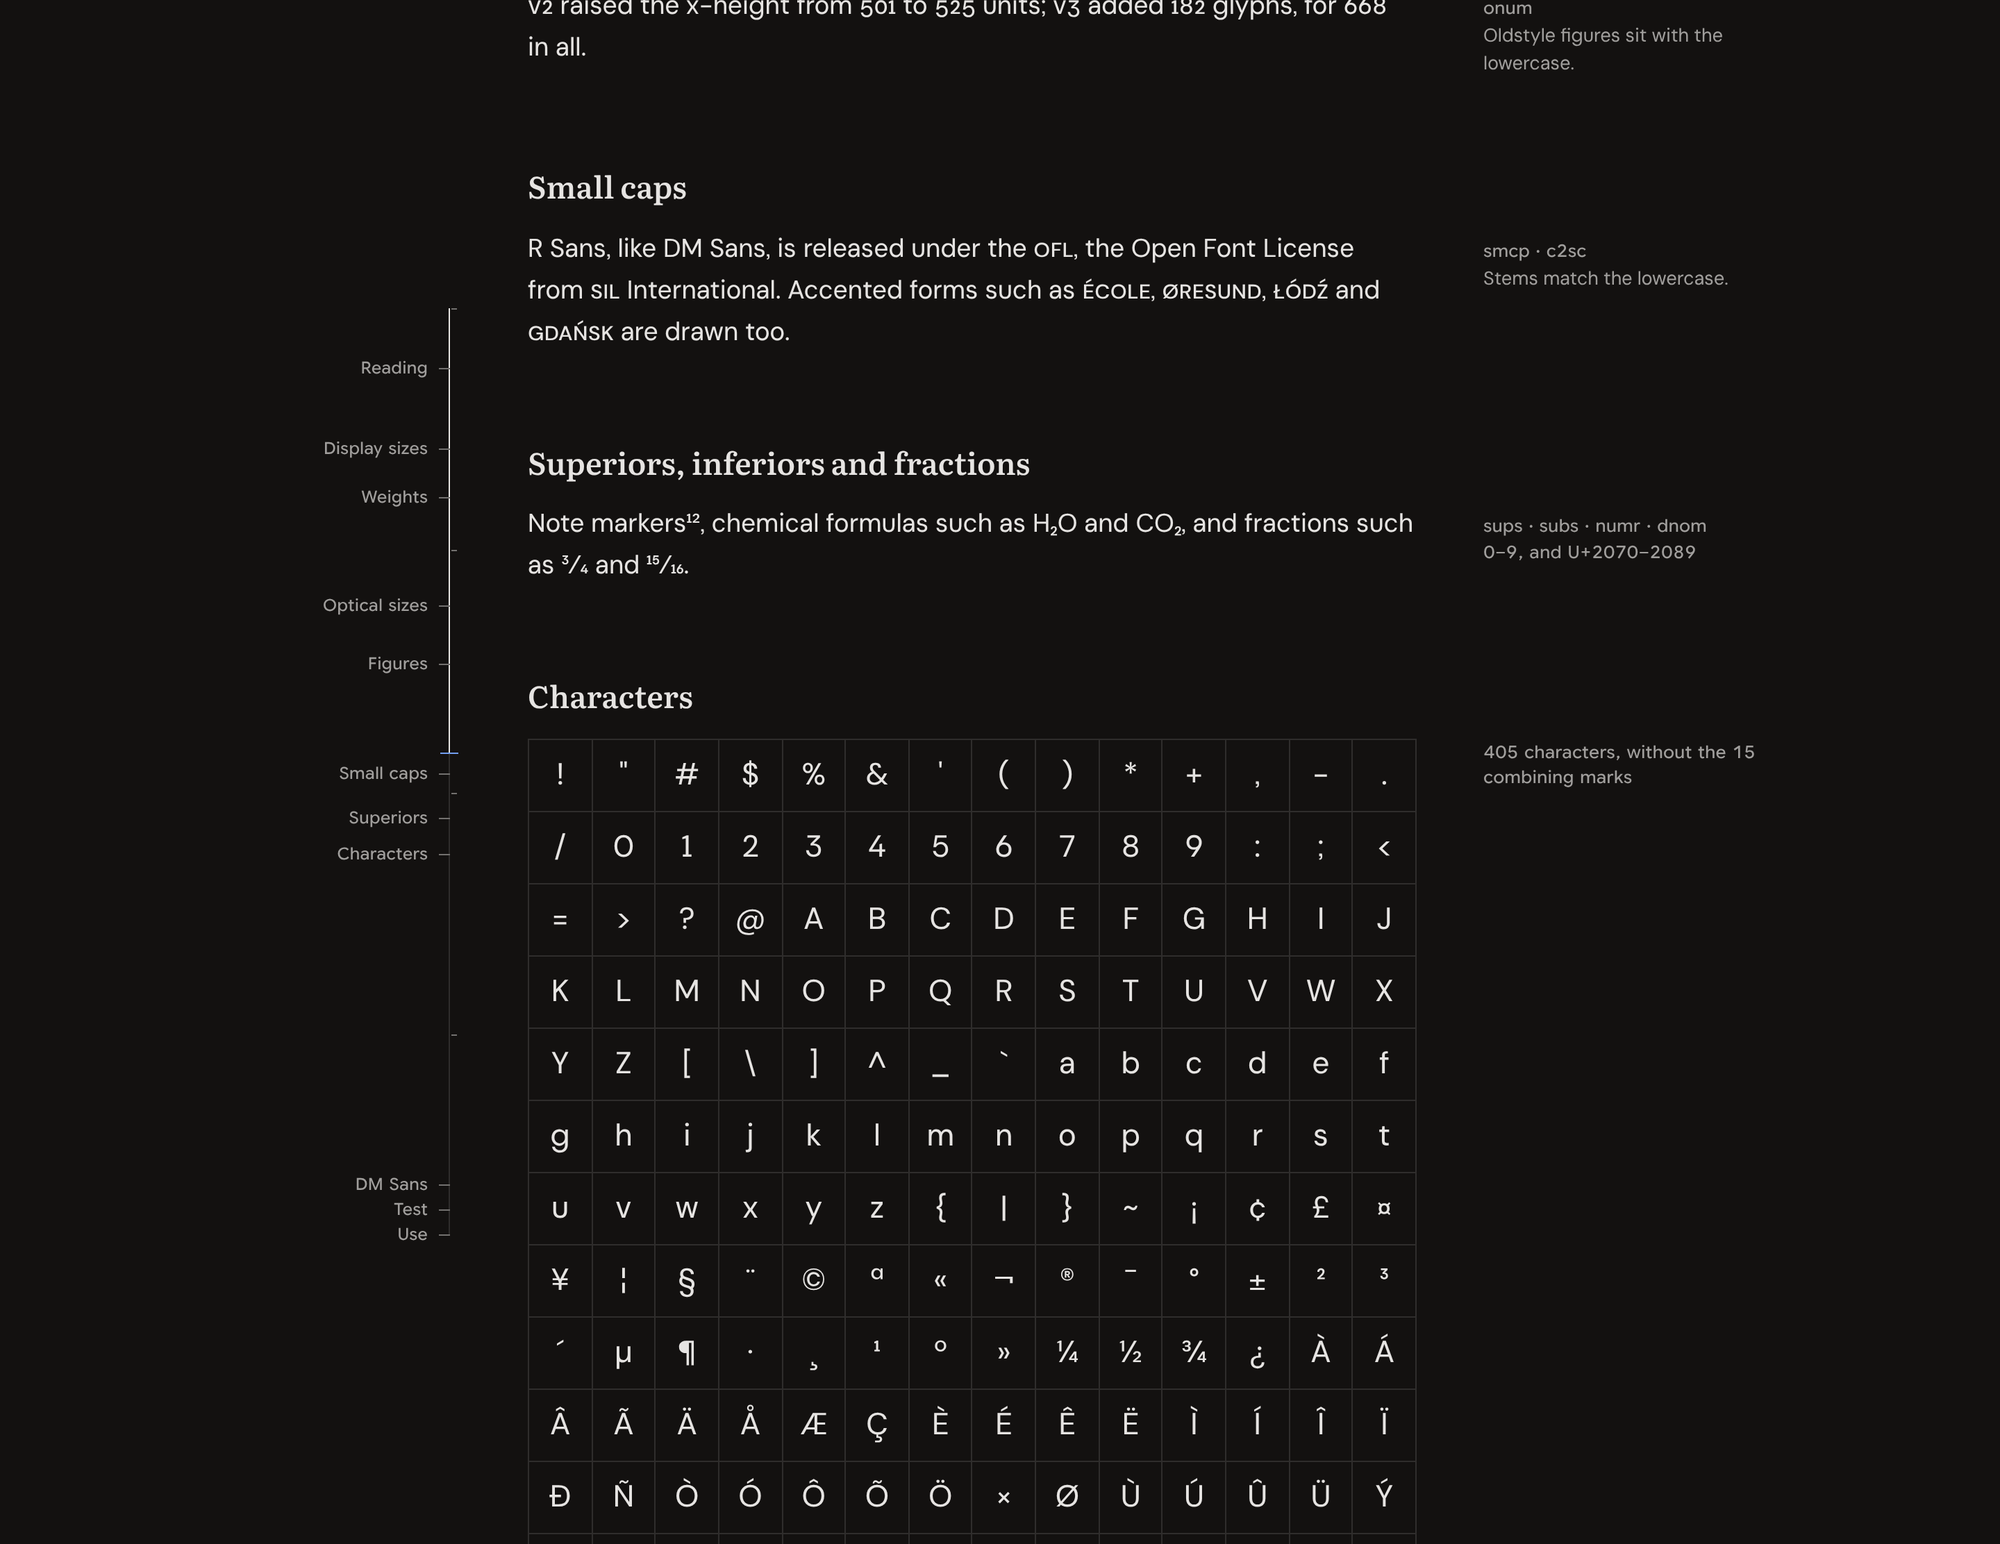
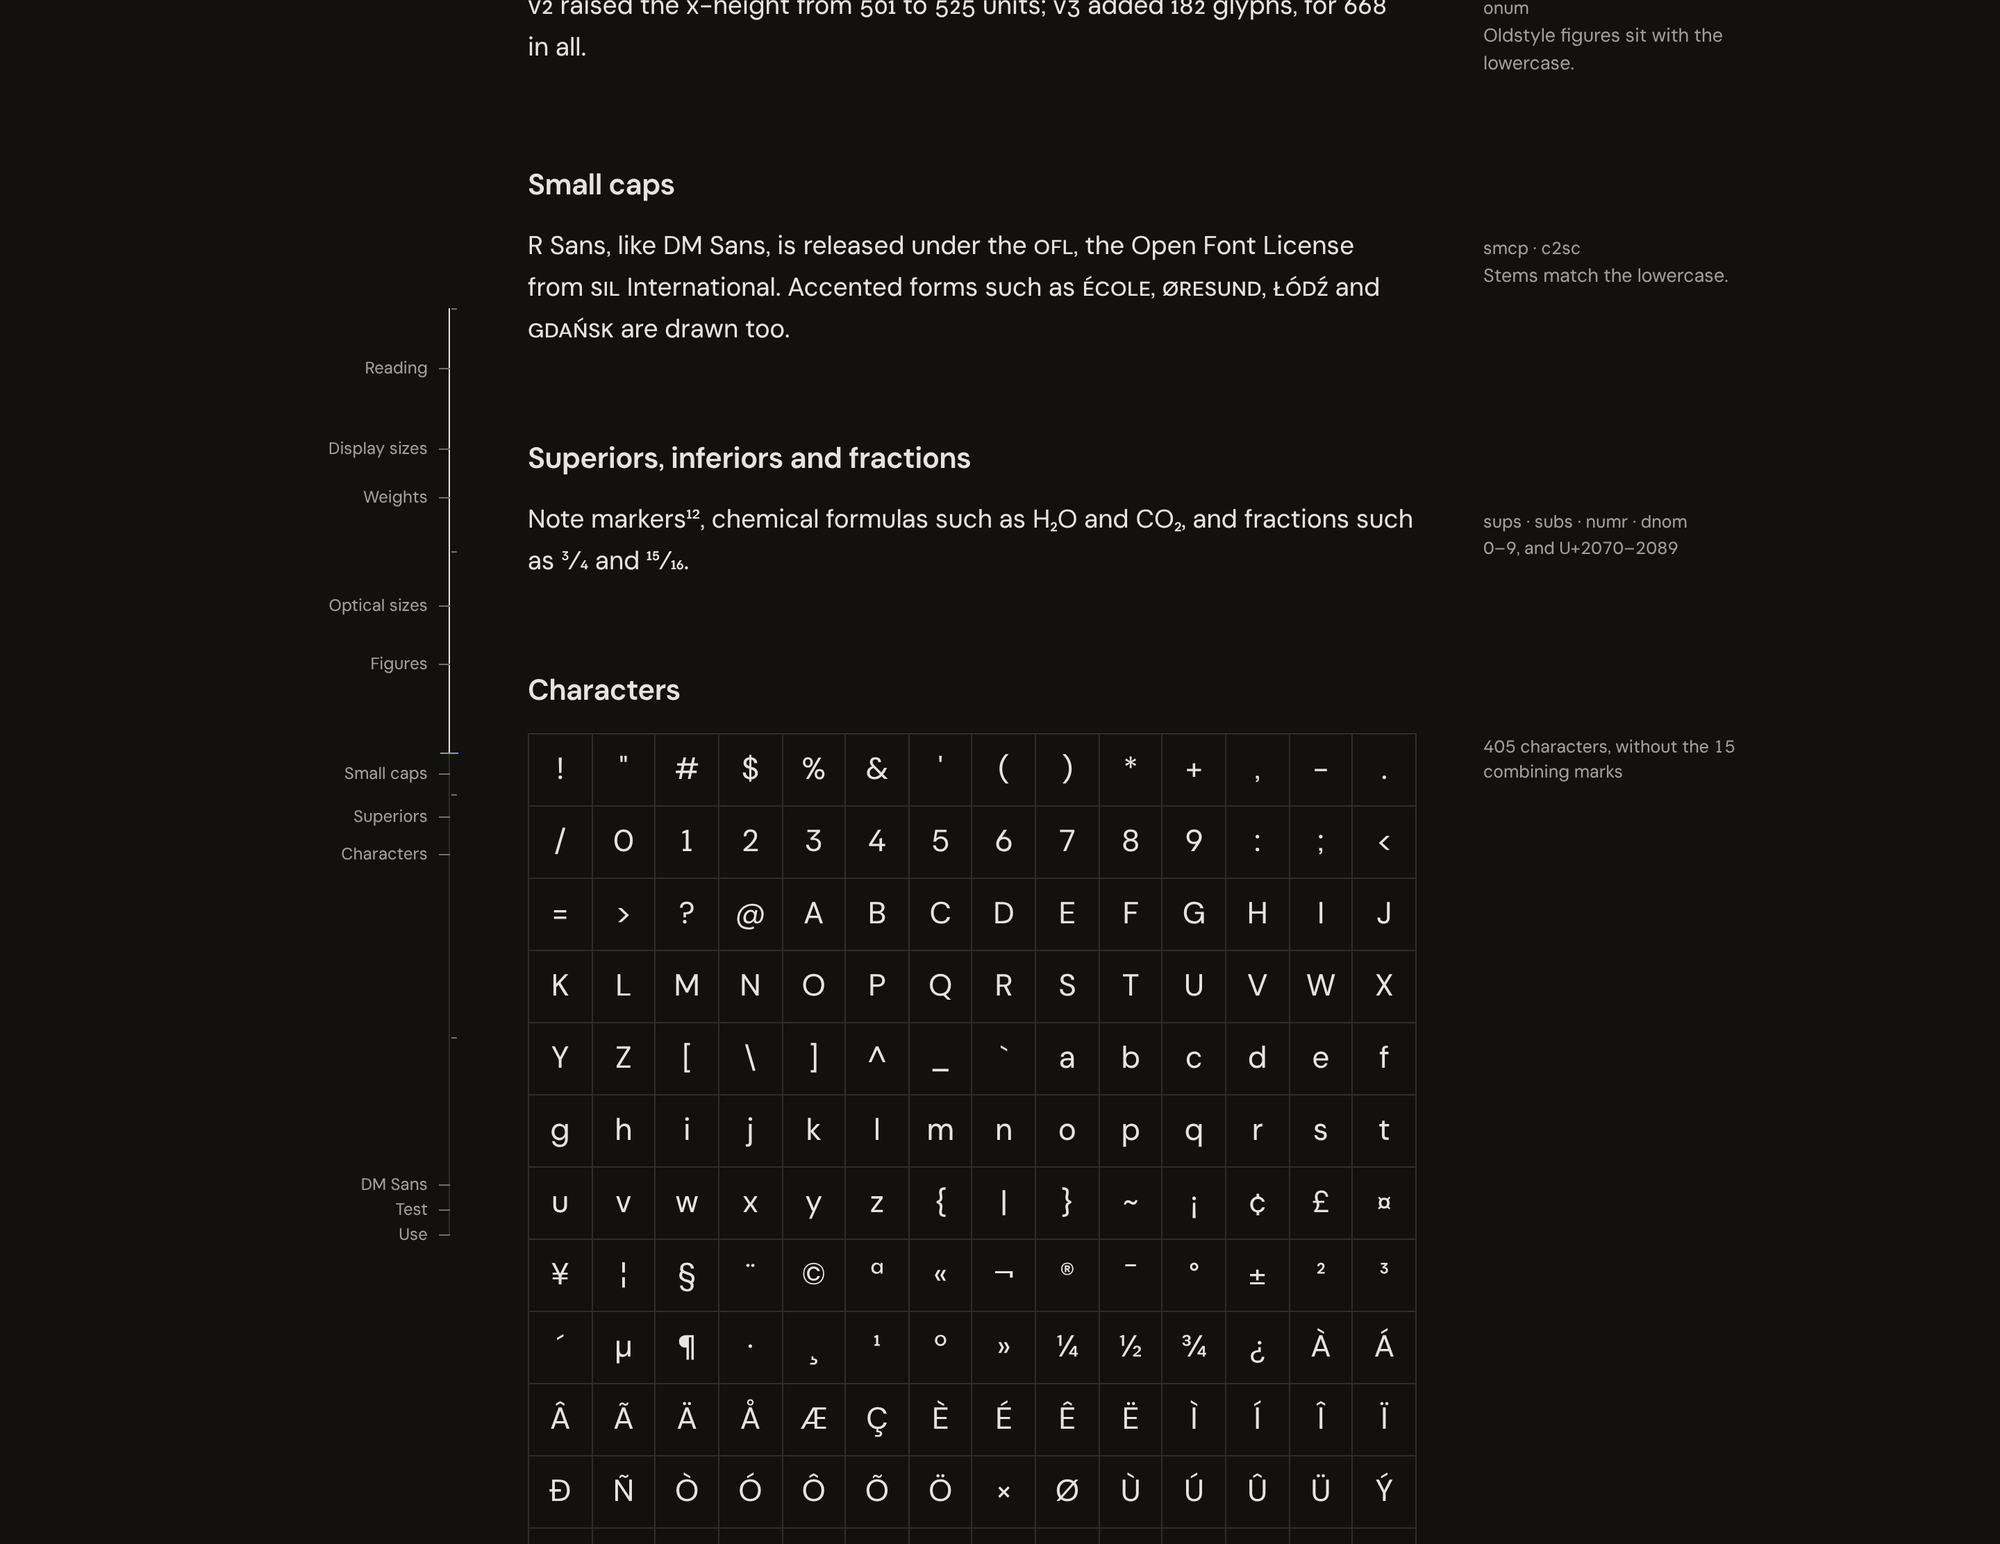
preview.html: set the specimen in R Sans throughout
The title, headings, labels, readouts and note numerals were in
Literata and Google Sans Flex. A specimen shows its own face, so they
are R Sans again: the title at opsz 40, headings at 21px/620, small
text with tnum, note numerals with sups. R Mono stays for the CSS and
DM Sans for the comparison sample.

Claude-Session: https://claude.ai/code/session_016KPUYdH9H3Q64h64KfeqLr

diff --git a/preview.html b/preview.html
@@ -5,7 +5,7 @@
 <meta name="viewport" content="width=device-width, initial-scale=1">
 <title>R Sans specimen</title>
 <link rel="icon" href="data:,">
-<link rel="stylesheet" href="https://fonts.googleapis.com/css2?family=DM+Sans:ital,opsz,wght@0,9..40,100..1000;1,9..40,100..1000&family=Literata:ital,opsz,wght@0,7..72,200..900;1,7..72,200..900&family=Google+Sans+Flex:opsz,slnt,wdth,wght,GRAD,ROND@6..144,-10..0,25..151,1..1000,0..100,0..100&display=swap">
+<link rel="stylesheet" href="https://fonts.googleapis.com/css2?family=DM+Sans:ital,opsz,wght@0,9..40,100..1000;1,9..40,100..1000&display=swap">
 <style>
 @font-face { font-family: 'R Sans'; src: url('r-sans/web-fonts/RSans-Variable.woff2') format('woff2'); font-weight: 100 1000; font-style: normal; }
 @font-face { font-family: 'R Sans'; src: url('r-sans/web-fonts/RSans-Italic-Variable.woff2') format('woff2'); font-weight: 100 1000; font-style: italic; }
@@ -70,23 +70,22 @@ p { margin: 0; text-wrap: pretty; hanging-punctuation: first; }
 .row > .txt { grid-column: 1; }
 .row > .note { grid-column: 3; }
 .note { font-size: 13.5px; line-height: 1.48; color: var(--ink-2); }
-/* Google Sans Flex: small text and every number outside the samples */
-.meta, .ghost, .rule a, .controls label, .strip button, .mark {
-  font-family: 'Google Sans Flex', sans-serif; font-stretch: 100%; font-optical-sizing: auto;
-  font-variation-settings: "GRAD" 0, "ROND" 0, "slnt" 0, "wdth" 100;
-  font-feature-settings: normal; font-variant-numeric: tabular-nums; font-weight: 450; }
+/* Small text: R Sans with tabular figures */
+.meta, .ghost, .rule a, .controls label, .strip button {
+  font-family: 'R Sans', sans-serif; font-feature-settings: "ss03" 1; font-optical-sizing: auto;
+  font-variant-numeric: tabular-nums; font-weight: 450; }
 .meta { font-size: 12.5px; color: var(--ink-2); }
-/* Note numerals: 0.66em, raised 0.5em, in ochre */
-.mark { font-size: 0.66em; line-height: 0; vertical-align: 0.5em; font-weight: 560; color: var(--ochre); }
+/* Note numerals: R Sans superiors, in ochre */
+.mark { font-variant-position: super; color: var(--ochre); }
 
 header.top { grid-column: 3 / 6; display: flex; justify-content: flex-end; align-items: baseline; margin-bottom: 64px; }
 .ghost { font-size: 12.5px; color: var(--ink-2); background: none; border: 0; padding: 0; cursor: pointer; }
 .ghost:hover { color: var(--ink); }
 
-h1.title { font-family: 'Literata', serif; font-size: 72px; line-height: 1.06; font-weight: 470; letter-spacing: -0.012em;
-           font-variation-settings: 'opsz' 72; font-feature-settings: normal; margin: 0; text-wrap: balance; }
+h1.title { font-size: 72px; line-height: 1.02; font-weight: 520; letter-spacing: -0.02em;
+           font-variation-settings: 'opsz' 40; margin: 0; text-wrap: balance; }
 .sub { margin-top: 16px; color: var(--ink-2); }
-h2 { font-family: 'Literata', serif; font-size: 22px; line-height: 1.3; font-weight: 560; font-variation-settings: 'opsz' 24; font-feature-settings: normal; margin: 0; }
+h2 { font-size: 21px; line-height: 1.3; font-weight: 620; letter-spacing: -0.012em; margin: 0; }
 section { grid-column: 3 / 6; display: grid; grid-template-columns: 640px 48px 216px; row-gap: 16px; margin-top: 64px; }
 section > *, section .row { grid-column: 1 / 4; }
 section > h2 { grid-column: 1; }
